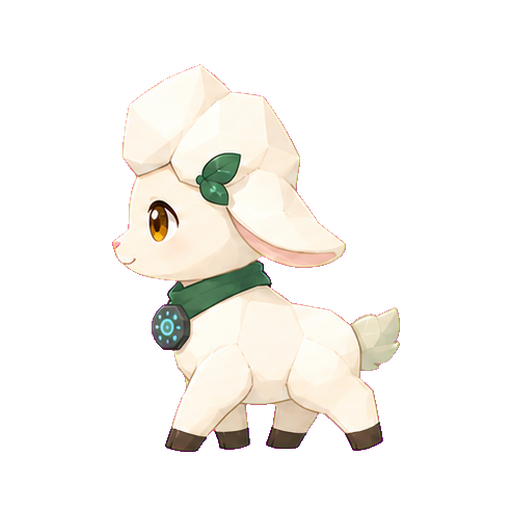
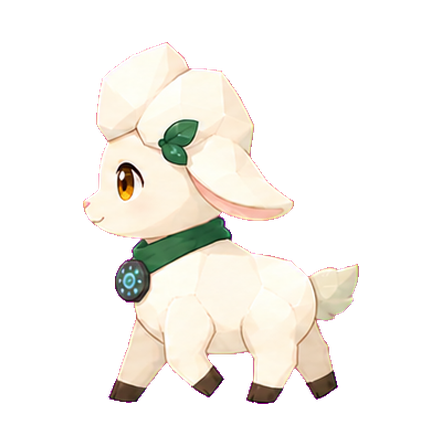
修正小綿助走路步態

diff --git a/desktop_pet_preview.py b/desktop_pet_preview.py
@@ -31,8 +31,8 @@ class DesktopPetPreview:
         "think": 145,
         # Walking uses a forward-and-back pose cycle.  A slightly slower
         # cadence reads as a gentle lamb walk instead of a hurried limp.
-        "walk_left": 108,
-        "walk_right": 108,
+        "walk_left": 125,
+        "walk_right": 125,
         "warning": 140,
     }
 
@@ -161,14 +161,11 @@ class DesktopPetPreview:
                     cleaned_pixels.append((red, green, blue, 0 if is_magenta_fringe or alpha < 32 else 255))
                 image.putdata(cleaned_pixels)
                 result[state].append(ImageTk.PhotoImage(image))
-            if state.startswith("walk_") and len(result[state]) >= 3:
-                # The supplied walk drawings progress from an extended pose
-                # into a compressed pose. Jumping directly from the last
-                # drawing back to the first makes the body snap upward and
-                # looks like one injured leg. Ping-pong the poses so the body
-                # returns through the same contact positions smoothly.
-                forward = result[state]
-                result[state] = forward + forward[-2:0:-1]
+            # Walk assets are authored as a complete, ordered gait cycle.
+            # Keep that order instead of mirroring it at runtime: the
+            # generated frames already alternate weight-bearing legs and
+            # include the return-to-contact pose. Mirroring here made the
+            # rear hoof appear to snap backwards and read as an injury.
         return result
 
     def run(self) -> None:
